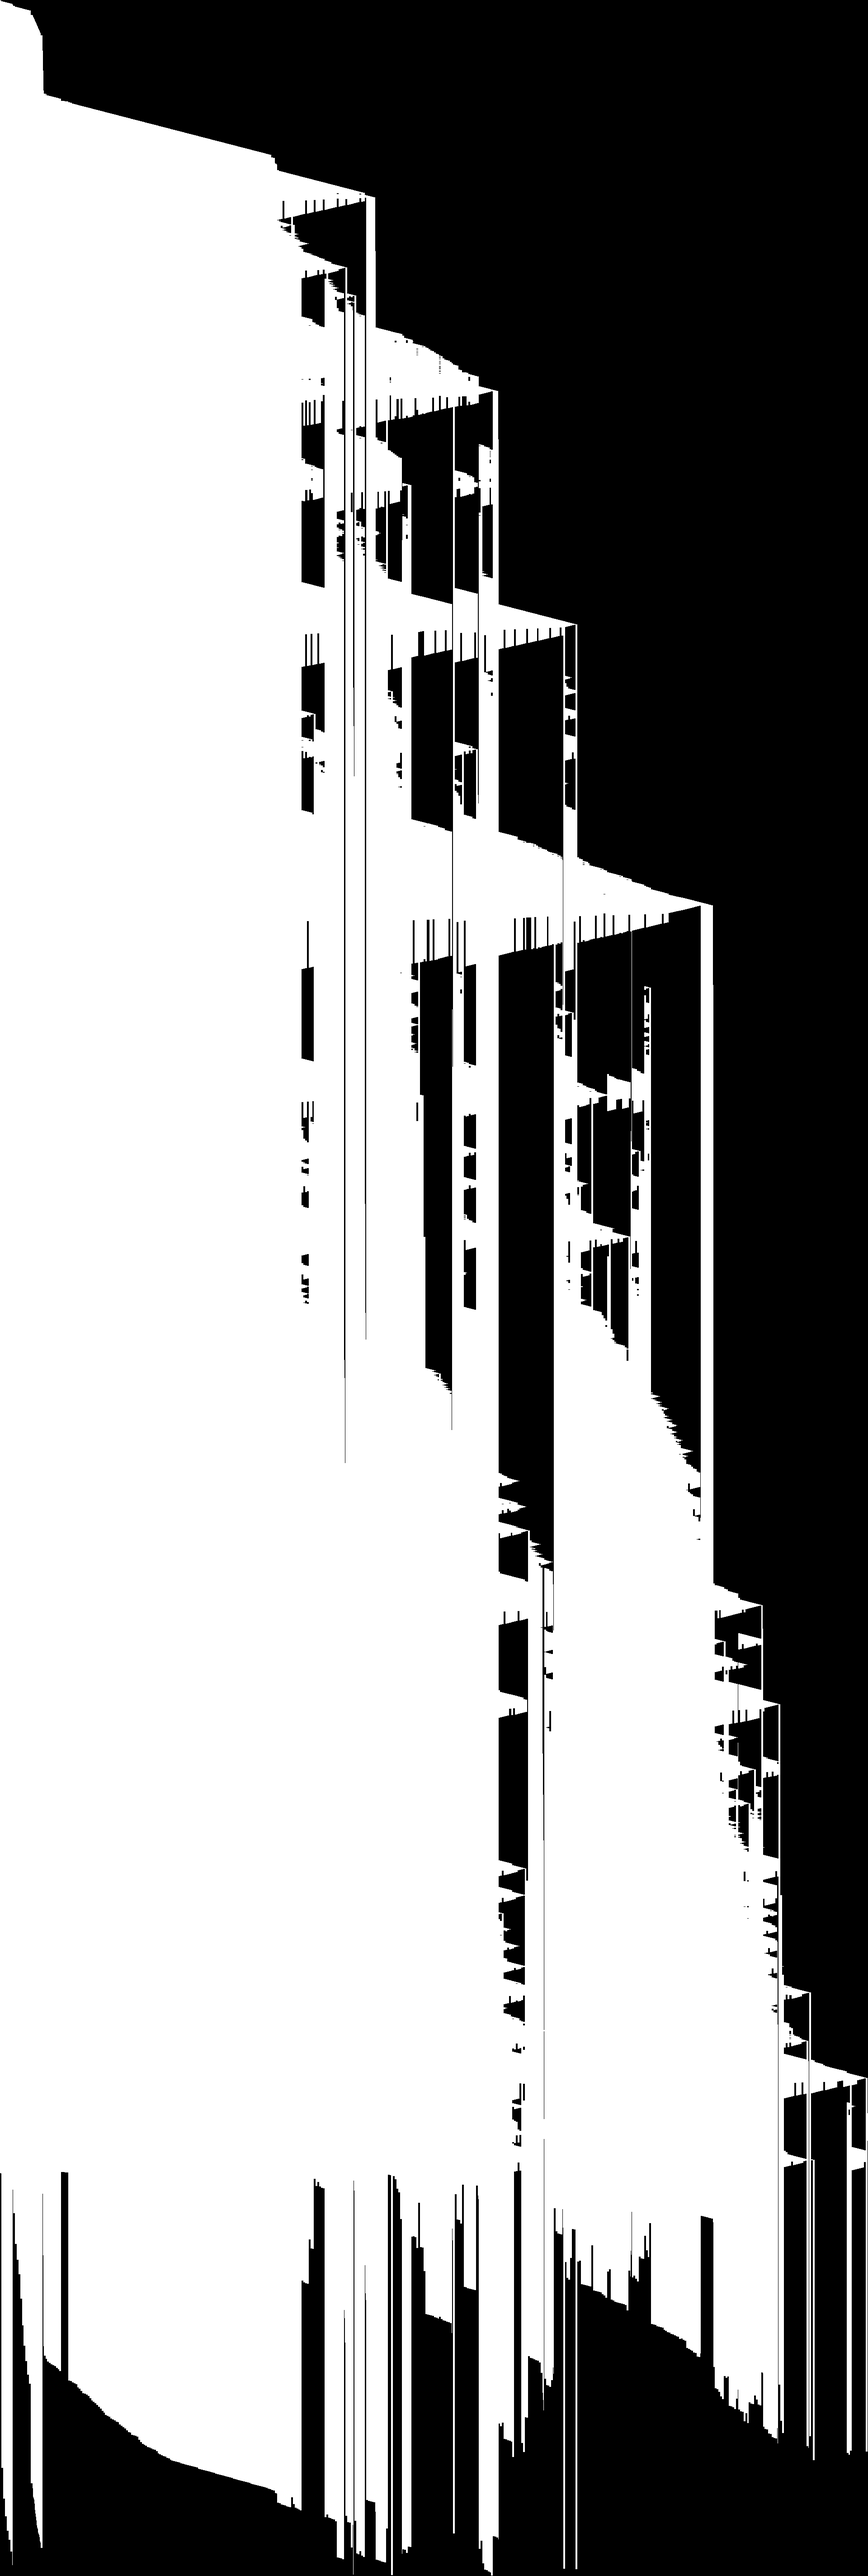
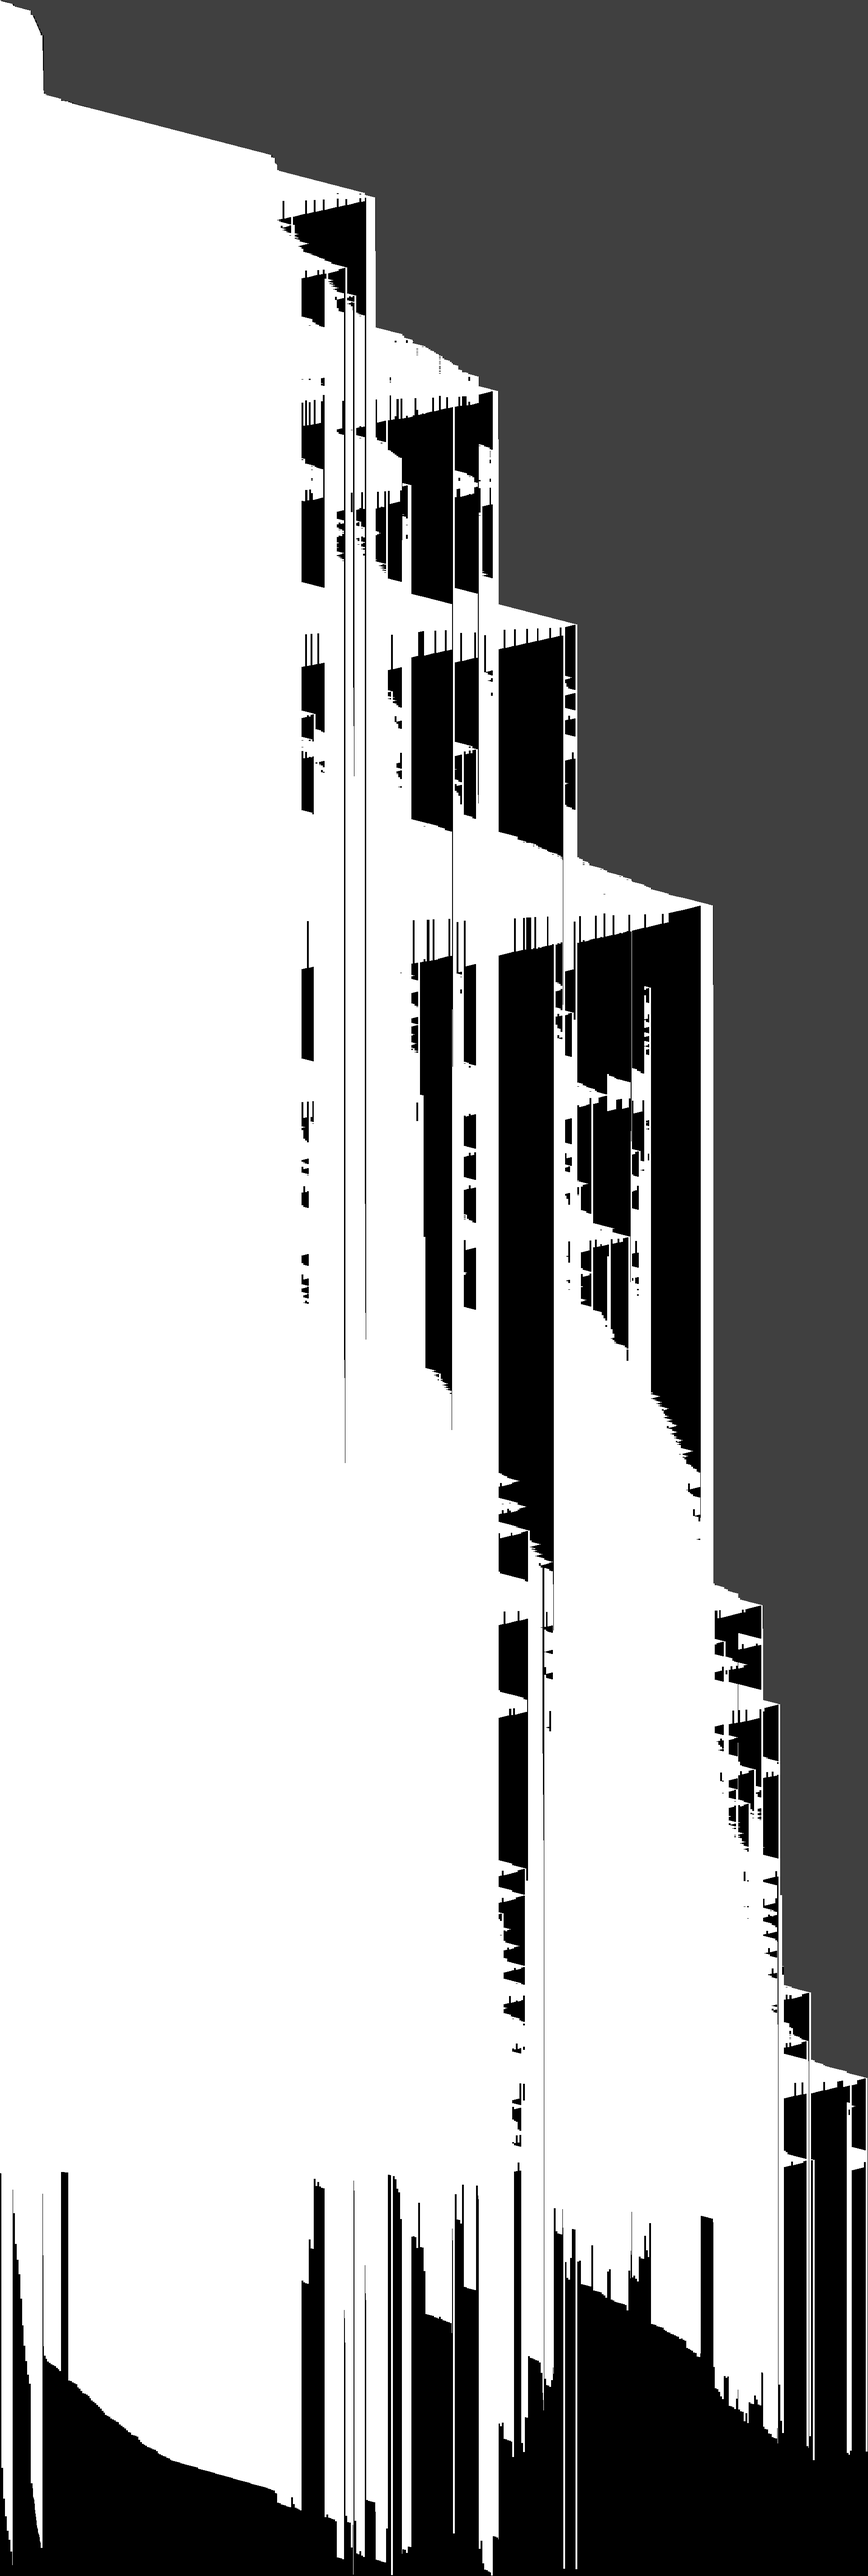
new viz: unextended area

Changed region(s): [[0.0312, 0.0, 1.0, 0.8082]]

diff --git a/heapvisual.py b/heapvisual.py
@@ -23,15 +23,21 @@ def visualize_heap_log(operations, max_heap_size, trace_file):
     else:
         op_rows = int(height / ops)
 
-    # Initialize the heap state array (0: free, 255: allocated)
-    heap_state = np.zeros(width, dtype=np.uint8)
+    # Space that hasn't been extended is marked gray
+    heap_state = np.empty(width, dtype=np.uint8)
+    heap_state.fill(64)
 
     image = np.zeros((height, width), dtype=np.uint8)
     
     # Draw by operations
-    for i, (op, addr, size) in enumerate(operations):
+    heap_used = 0
+    for i, (op, addr, size, heap_size) in enumerate(operations):
         idx_start = int(addr * addr_scale_factor)
         idx_end = int((addr + size) * addr_scale_factor)
+        idx_heap_size = int(heap_size * addr_scale_factor)
+
+        heap_state[heap_used : idx_heap_size] = 0  # Extend heap
+        heap_used = idx_heap_size
 
         if op == '+':
             heap_state[idx_start : idx_end] = 255  # Allocated: white
@@ -67,15 +73,16 @@ def read_heap_log(filename):
                 # alloc
                 addr = int(tokens[1], 16) - heap_start_addr
                 size = int(tokens[2])
-                max_heap_size = max(max_heap_size, addr + size)
-                operations.append(('+', addr, size))
+                heap_size = int(tokens[3])
+                operations.append(('+', addr, size, heap_size))
             elif tokens[0] == '-':   
                 # free
                 addr = int(tokens[1], 16) - heap_start_addr
                 size = int(tokens[2])
-                max_heap_size = max(max_heap_size, addr + size)
-                operations.append(('-', addr, size))
+                heap_size = int(tokens[3])
+                operations.append(('-', addr, size, heap_size))
             elif tokens[0] == '1':   # end
+                max_heap_size = operations[-1][3]
                 visualize_heap_log(operations, max_heap_size, trace_file)
                 operations = []
                 max_heap_size = 0

diff --git a/heapvisual.c b/heapvisual.c
@@ -4,8 +4,8 @@
 /* 
   log 每行有一个标识号前缀
     0 trace file name, heap start address
-    + occupy
-    - remove / realloc handling
+    + addr, size, heap_size
+    - addr, size, heap_size
     1 end
 */
 void log_trace_init(FILE* fp, char *file_name, void *heap_start) {
@@ -24,9 +24,9 @@ void log_trace_end(FILE* fp) {
 #define GET_SIZE(p)		(GET(p) & ~0x7)
 #define HDRP(bp)	((char* )(bp) - 4)
 
-void log_malloc(FILE* fp, void *p) {
+void log_malloc(FILE* fp, void *p, size_t heap_size) {
   size_t size = GET_SIZE(HDRP(p));
-  fprintf(fp, "+ %p %d\n", p, size);
+  fprintf(fp, "+ %p %d %d\n", p, size, heap_size);
 }
 
 static size_t old_size;
@@ -34,13 +34,13 @@ static size_t old_size;
 void log_realloc_1(FILE* fp, void *old_p) {
   old_size = GET_SIZE(HDRP(old_p));
 }
-void log_realloc_2(FILE* fp, void *old_p, void *new_p) {
+void log_realloc_2(FILE* fp, void *old_p, void *new_p, size_t heap_size) {
   size_t new_size = GET_SIZE(HDRP(new_p));
-  fprintf(fp, "- %p %d\n", old_p, old_size);
-  fprintf(fp, "+ %p %d\n", new_p, new_size);
+  fprintf(fp, "- %p %d %d\n", old_p, old_size, heap_size);
+  fprintf(fp, "+ %p %d %d\n", new_p, new_size, heap_size);
 }
 
-void log_free(FILE* fp, void *p) {
+void log_free(FILE* fp, void *p, size_t heap_size) {
   size_t old_size = GET_SIZE(HDRP(p));
-  fprintf(fp, "- %p %d\n", p, old_size);
+  fprintf(fp, "- %p %d %d\n", p, old_size, heap_size);
 }

diff --git a/mdriver.c b/mdriver.c
@@ -658,7 +658,7 @@ static int eval_mm_valid(trace_t *trace, int tracenum, range_t **ranges)
             }
 
             #ifdef HEAP_VISUAL
-                log_malloc(fp_log, p);
+                log_malloc(fp_log, p, mem_heapsize());
             #endif
             
             /* 
@@ -696,7 +696,7 @@ static int eval_mm_valid(trace_t *trace, int tracenum, range_t **ranges)
             }
 
             #ifdef HEAP_VISUAL
-                log_realloc_2(fp_log, oldp, newp);
+                log_realloc_2(fp_log, oldp, newp, mem_heapsize());
             #endif
             
             /* Remove the old region from the range list */
@@ -734,7 +734,7 @@ static int eval_mm_valid(trace_t *trace, int tracenum, range_t **ranges)
             remove_range(ranges, p);
 
             #ifdef HEAP_VISUAL
-                log_free(fp_log, p);
+                log_free(fp_log, p, mem_heapsize());
             #endif
 
             mm_free(p);

diff --git a/heapvisual.h b/heapvisual.h
@@ -3,7 +3,7 @@
 void log_trace_init(FILE* fp, char *file_name, void *mem_start);
 void log_trace_end(FILE* fp);
 
-void log_malloc(FILE* fp, void *addr);
+void log_malloc(FILE* fp, void *addr, size_t heap_size);
 void log_realloc_1(FILE* fp, void *old_p);
-void log_realloc_2(FILE* fp, void *old_p, void *new_p);
-void log_free(FILE* fp, void *p);
+void log_realloc_2(FILE* fp, void *old_p, void *new_p, size_t heap_size);
+void log_free(FILE* fp, void *p, size_t heap_size);

diff --git a/README-heapvisual.md b/README-heapvisual.md
@@ -20,6 +20,10 @@ python lib:
 ### Visualization
 
 - After running `mdriver`, heap log files will be generated. Running the `heapvisual.py` script will generate a visualization of the heap state for each trace file, in the specified folder.
+  - Colors 
+    - white: Allocated
+    - Black: Free
+    - Gray:  Unextended
   - The visualization results will faithfully reflect the output of your memory allocator, and they will be influenced by the allocation algorithm and data structures used.
 - Note that the implementation of `log_malloc`, `log_free`, and `log_realloc` in `heapvisual.c` depends on your own implementation in `mm.c`. Depending on the implementation of `mm_[]` functions, you may need to modify them.
   - By default, it uses the block header structure provided in the CSAPP source code.
